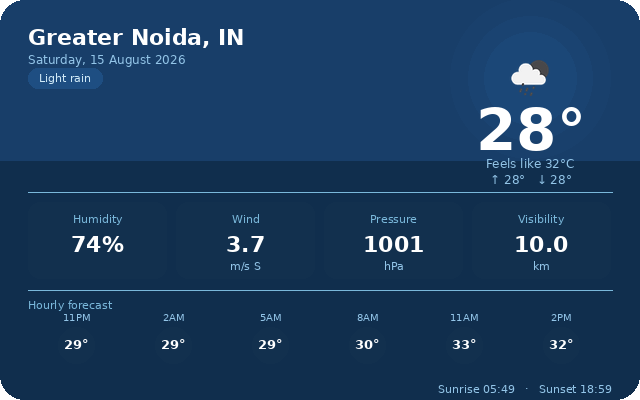
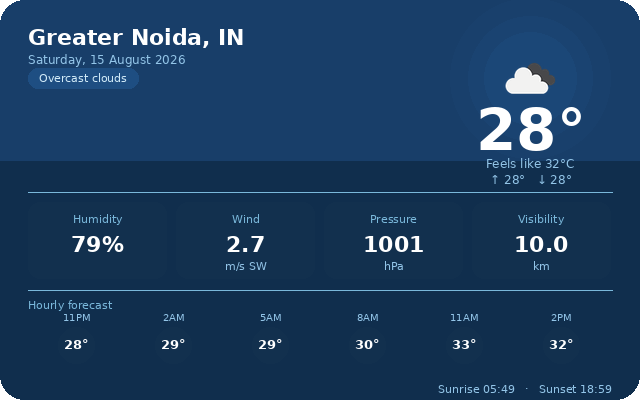
chore: auto-update README

diff --git a/README.md b/README.md
@@ -19,9 +19,9 @@ Building projects, automations, and experiments. This README refreshes itself wi
 ## Snapshot
 
 - Profile: [https://github.com/rtk-rnjn](https://github.com/rtk-rnjn)
-- Last update: 2026-08-15 15:12 UTC
-- Moon phase right now: 🌒 (11.57% through the lunar cycle)
-- Year progress (2026): 62.09% `███████████████░░░░░░░░░`
+- Last update: 2026-08-15 16:13 UTC
+- Moon phase right now: 🌒 (11.72% through the lunar cycle)
+- Year progress (2026): 62.10% `███████████████░░░░░░░░░`
 
 ## Weather Feed
 
@@ -30,8 +30,8 @@ Building projects, automations, and experiments. This README refreshes itself wi
 <img src="generated/weather_card.png" alt="Weather Card" />
 
 - City: Greater Noida
-- Condition: Light rain
-- Temperature: 28.4 C
+- Condition: Overcast clouds
+- Temperature: 28.2 C
 </details>
 
 ## News Feed
